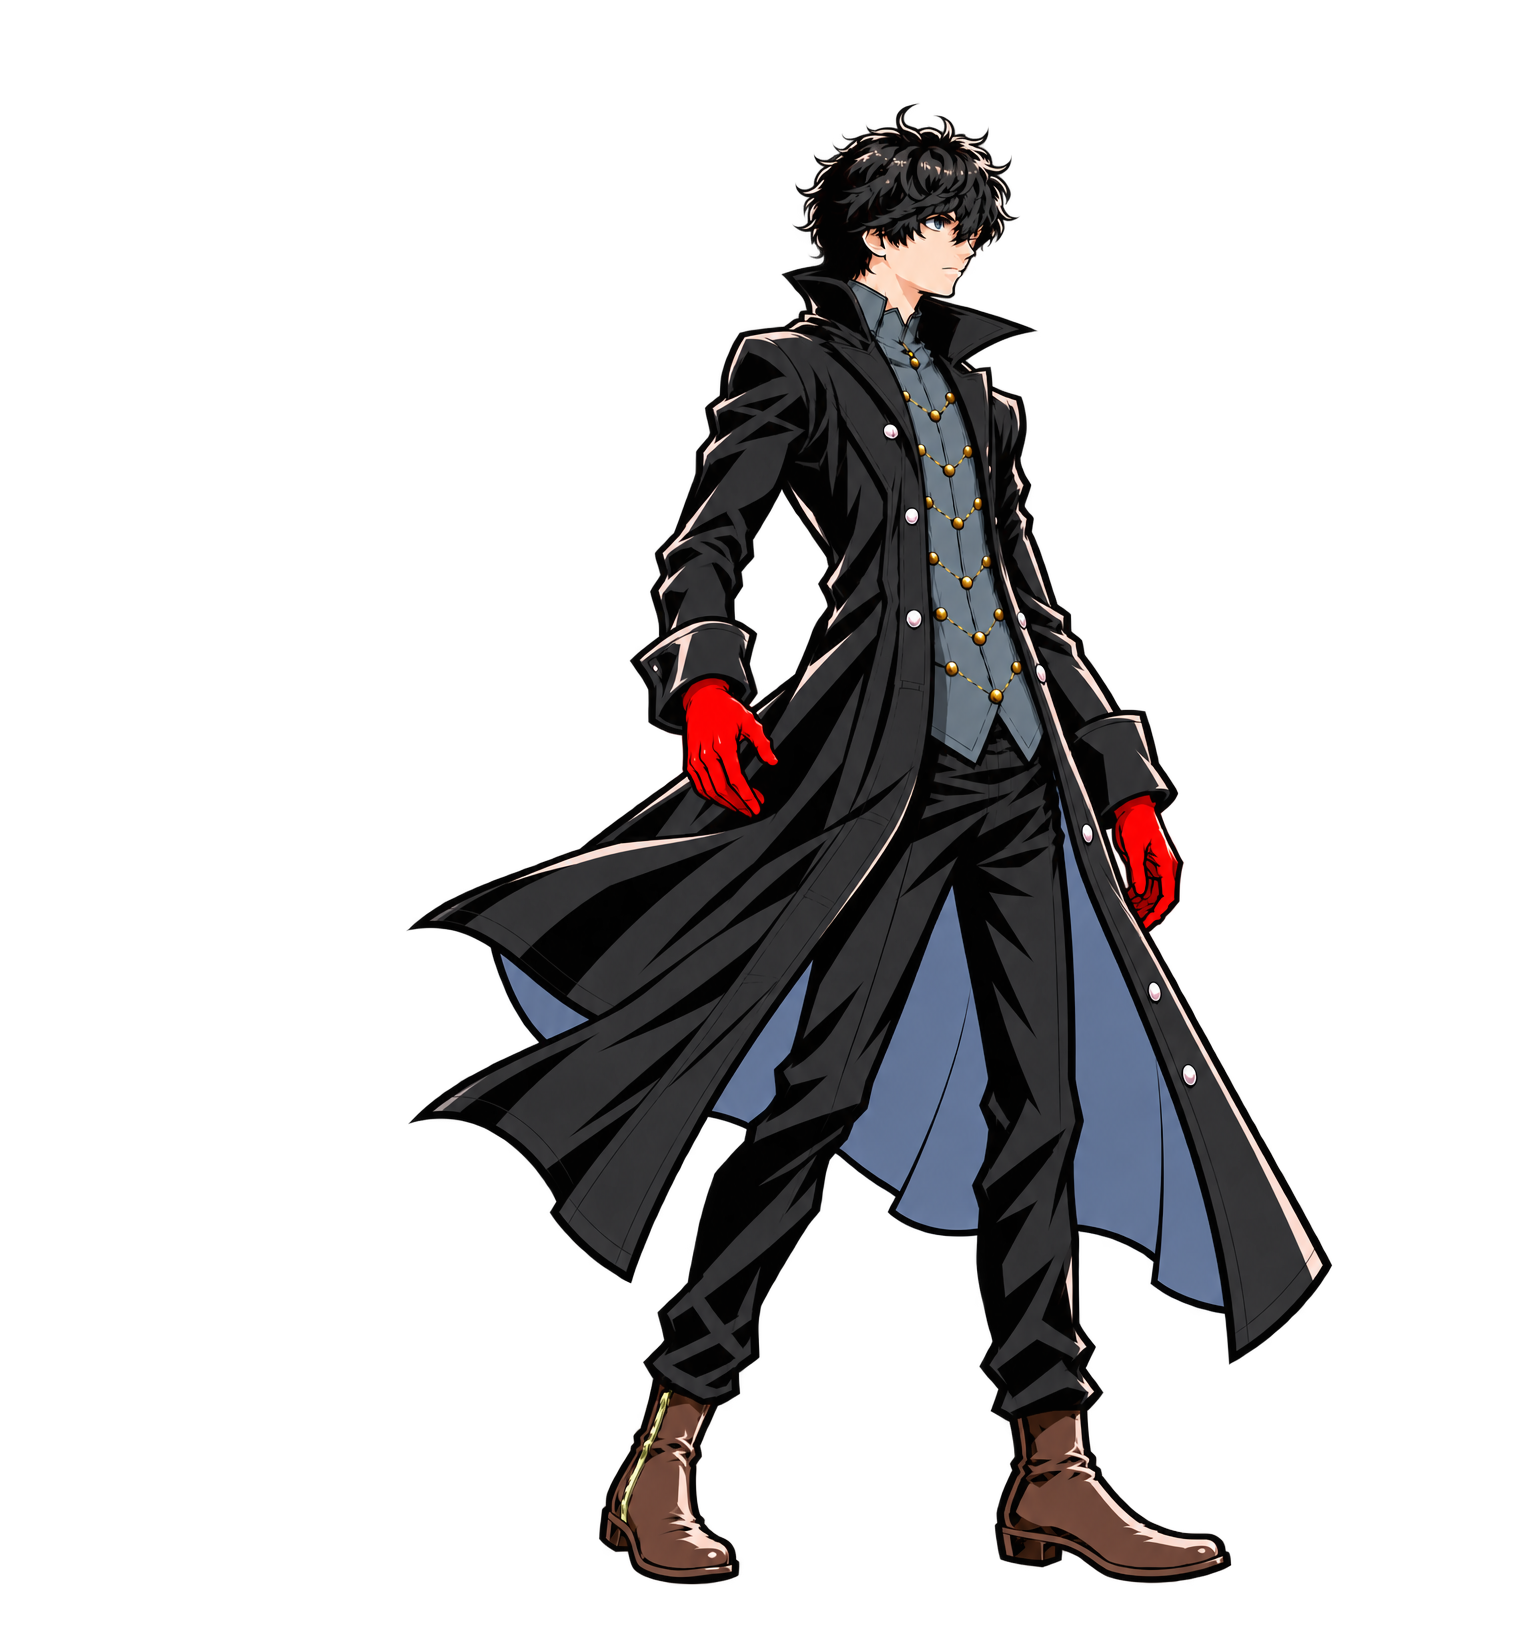
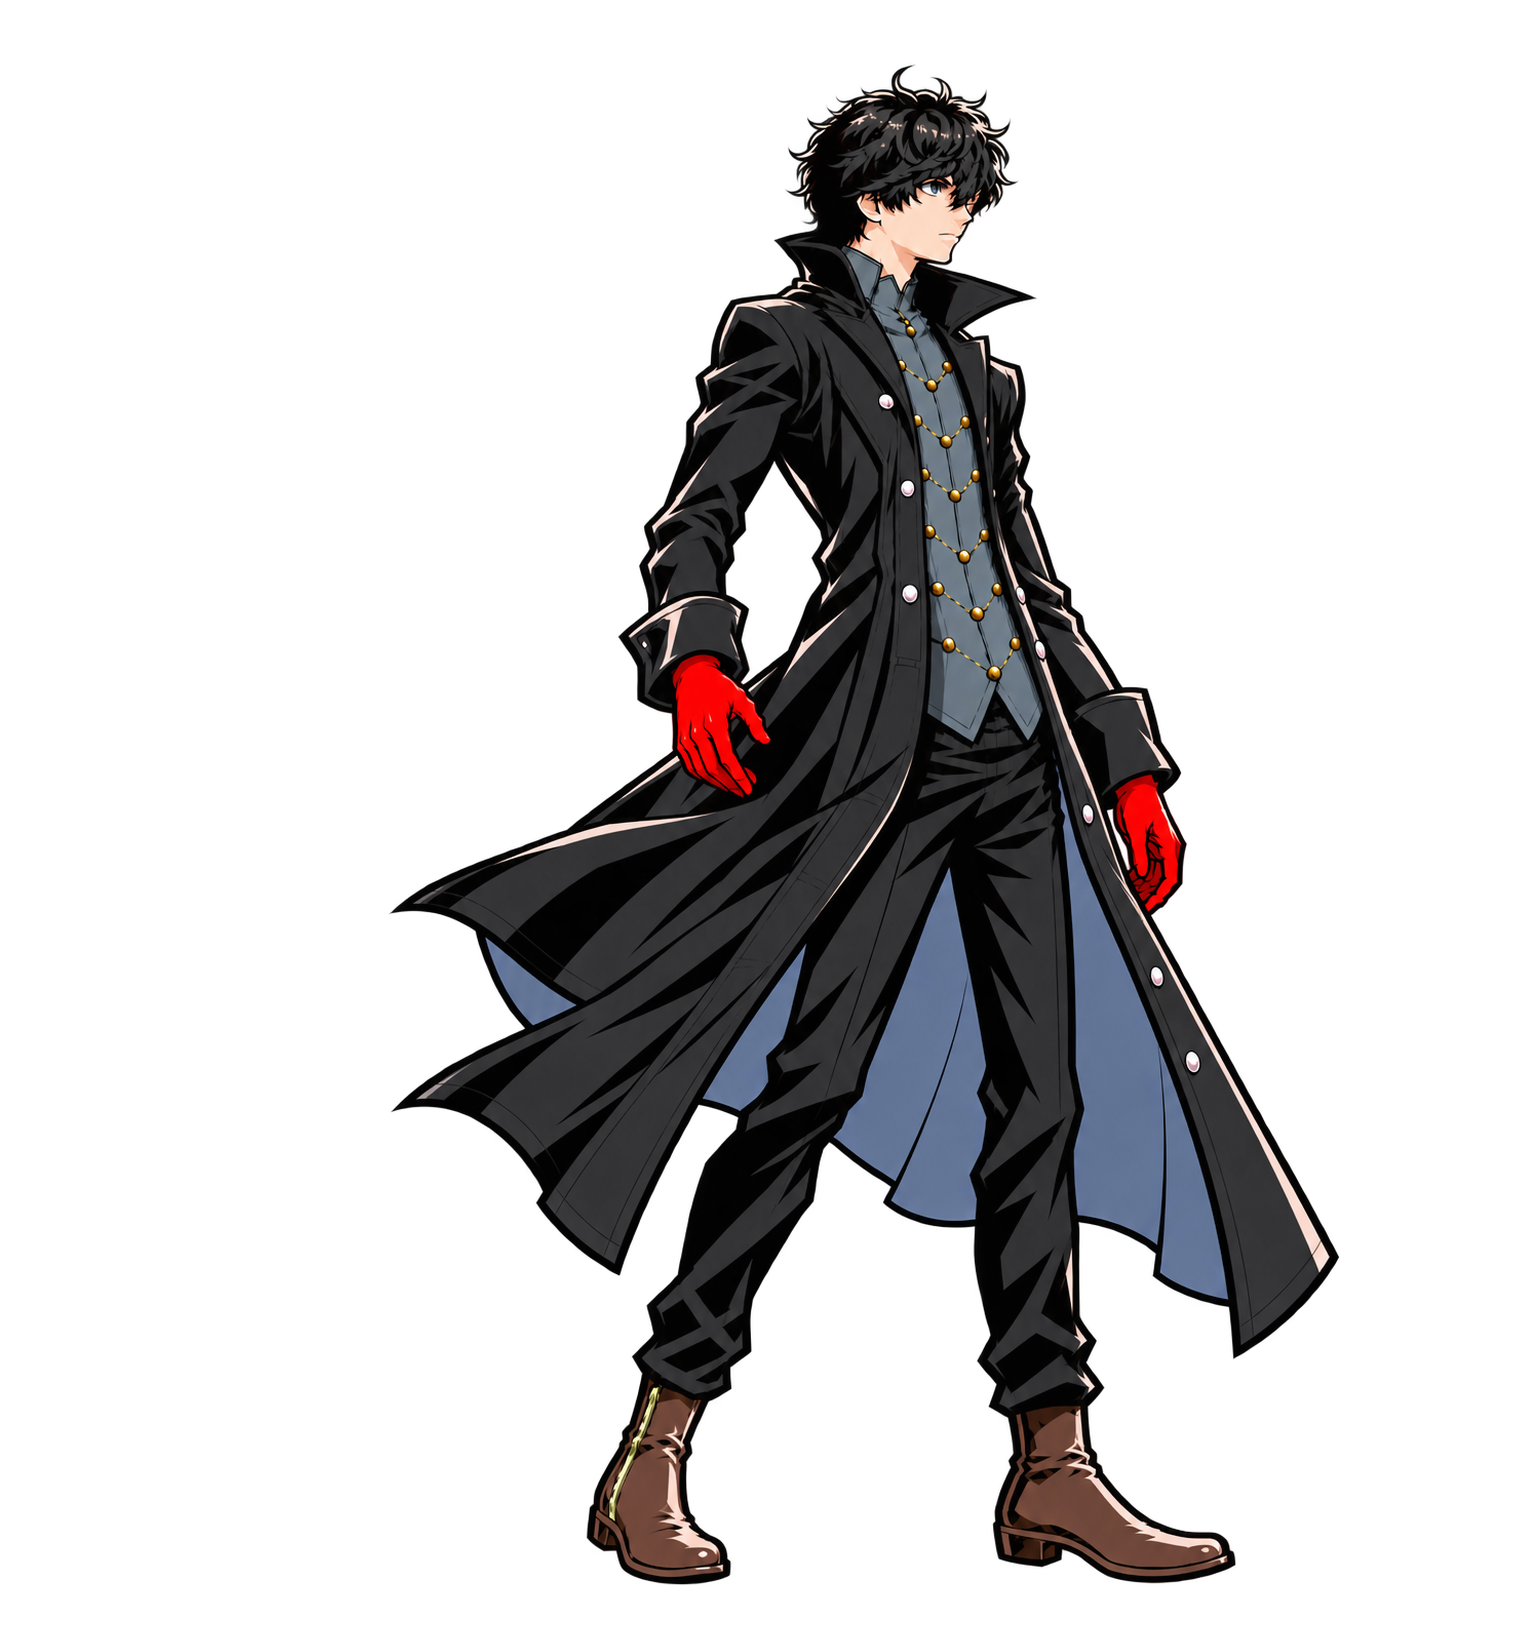
art: P5 summon down05_c scaled into the return path
Claude-Session: https://claude.ai/code/session_01Nam5m2bn9ofCCWTGM6fwcN

Changed region(s): [[0.25, 0.0312, 0.875, 0.9688]]

diff --git a/tools/p5/normalize_poses.py b/tools/p5/normalize_poses.py
@@ -38,7 +38,7 @@ POSES = {'idle_a3': (1.0, 'rear'), 'guard_a2': (1.0, 'front'), 'knife_ready_a': 
          'summon_down1_b': (1.03, 'front'), 'summon_down2_b': (1.03, 'front'), 'summon_down3_b': (1.0, 'front'),
          'summon_down2_c': (1.015, 'front'), 'summon_down3_c': (1.01, 'front'),
          'summon_down1_c': (1.028, 'front'), 'summon_down25_c': (1.016, 'front'),
-         'summon_down05_c': (1.0, 'front')}
+         'summon_down05_c': (1.026, 'front')}
 
 
 def load(n):
